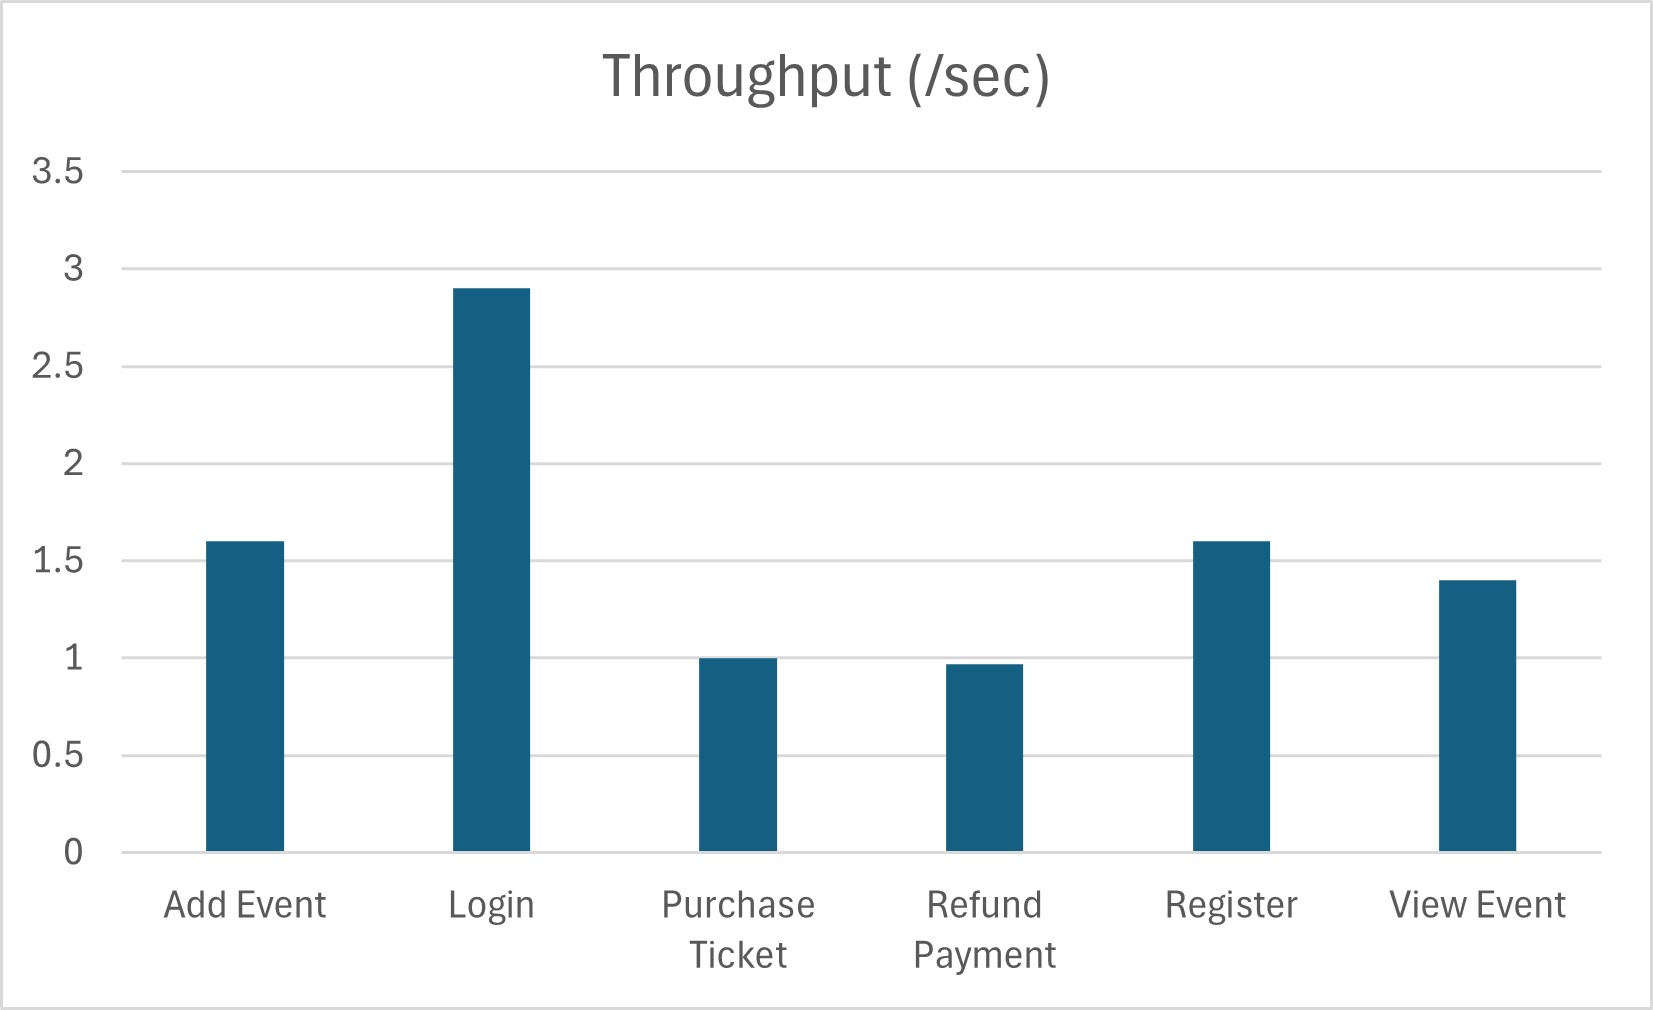
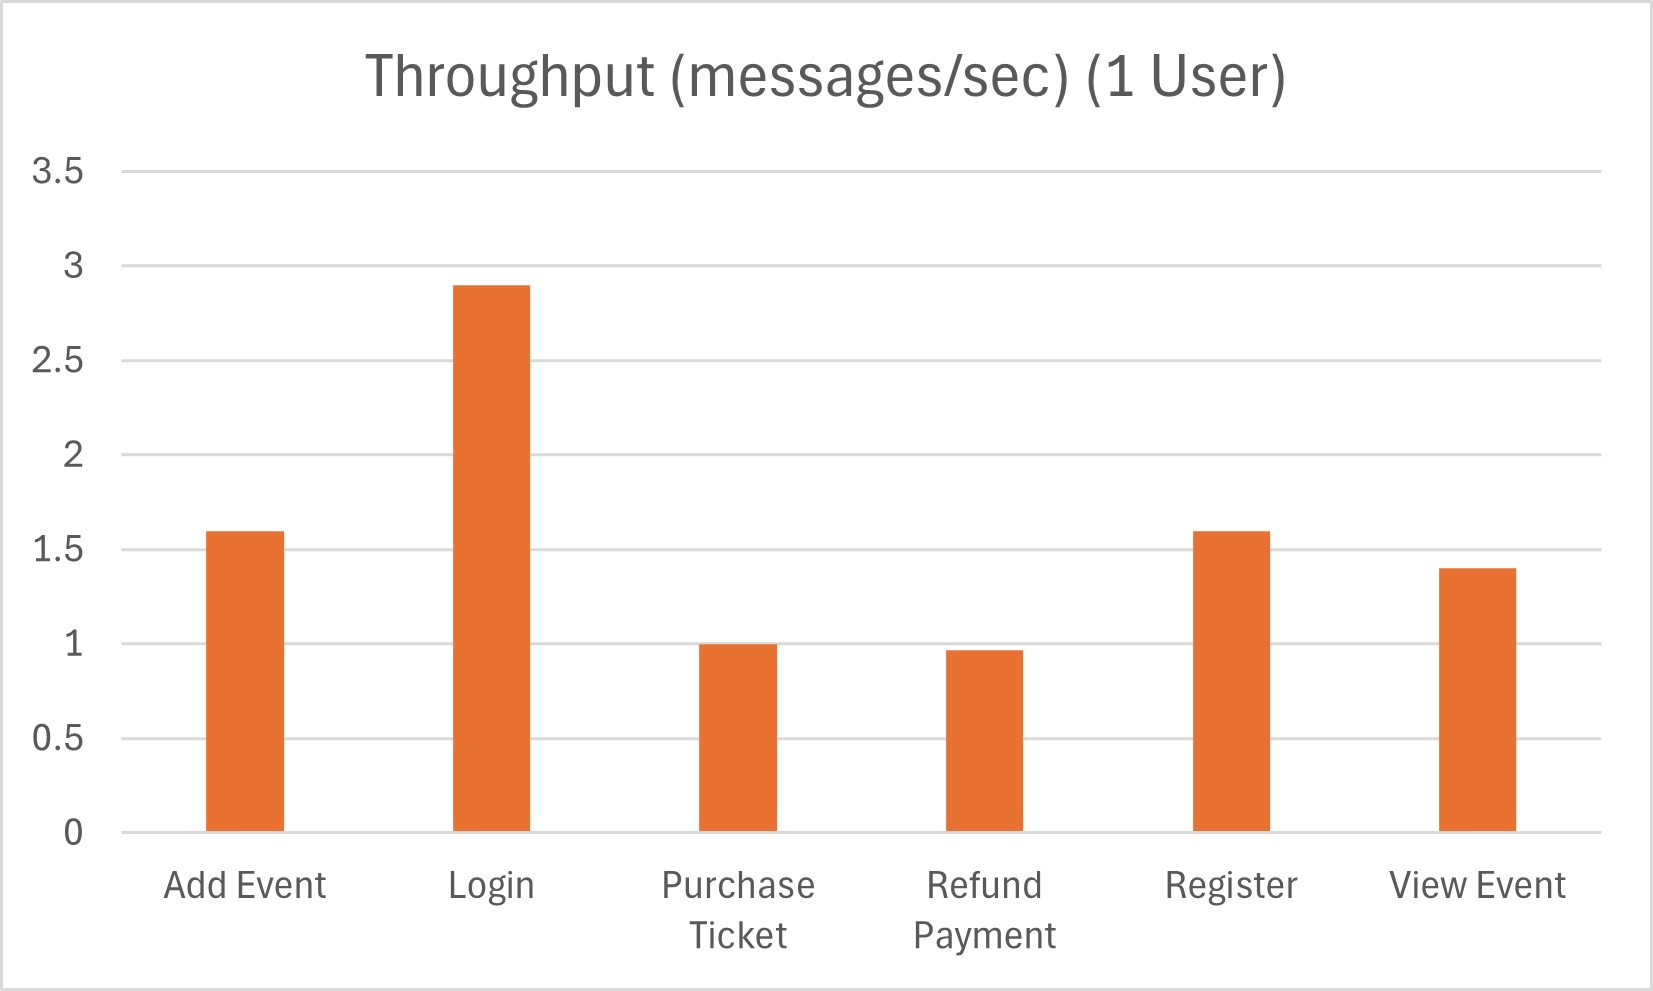
change readme

diff --git a/README.md b/README.md
@@ -31,11 +31,9 @@ Detailed description of the system functionality and how to run the implementati
 Instructions on setting up your project locally
 
 
-## Results of the tests:
+## Evaluation
 
-### Selected criteria
-
-#### Latency
+### Latency
 
 [NN group](https://www.nngroup.com/articles/response-times-3-important-limits/) , and this [research artical](https://www.researchgate.net/publication/228553434_System_Response_Time_and_User_Satisfaction_An_Experimental_Study_of_Browser-based_Applications) have shown that user attention and satisfaction can significantly drop if a task exceeds the approximate 10-second threshold. This is the point at which users begin to lose focus and may consider leaving the process. This effect is particularly considered on e-commerce and ticketing platforms.
 
@@ -50,11 +48,11 @@ Simple endpoints, such as "Add Event," "Login," and "View Event," typically invo
 |Register        | 350     |
 |View Event      | 626     |
 
-#### Throughput
+### Throughput
 
 Throughput assesses the volume of transactions processed within a given timeframe. Similar to latency, complex endpoints, such as "Refund Payment" and "Purchase Ticket," show lower throughput values, whereas other endpoints tend to display comparatively higher throughput values.
 
-|Endpoint | Through put (messages/s)|
+|Endpoint | Throughput (messages/s)|
 |----------------|----------|
 |Add Event       | 1.6      |
 |Login           | 2.9      |
@@ -63,18 +61,34 @@ Throughput assesses the volume of transactions processed within a given timefram
 |Register        | 1.6      |
 |View Event      | 1.4      |
 
-### Evaluation Scenarios
+### Load Testing 
 
-#### Load Testing 
+Load testing enables the evaluation of how the application performs under heavy loads. This includes understanding how quickly the system responds to requests, which is vital for user satisfaction and retention. For our project, we conducted two types of load testing: initially with just one user, and subsequently with 10 concurrent users. The single-user test helped us observe how the system operates under optimal conditions. Following this, we introduced 10 users to more accurately simulate real-life usage and identify any issues that arise when the system is used by multiple people simultaneously. This approach helped us determine whether our project can efficiently handle multiple users without encountering problems.
 
-Single user and multiple users
+|Endpoint | Throughput (messages/s) (1 Users) | Latency (ms) (1 Users) | Avarage Throughput (messages/s) (10 Users)  |Avarage Latency (ms) (10 Users)|
+|----------------|----------|--------|-------|---------|
+|Add Event       | 1.6      |581     |1.1    |429.2    |
+|Login           | 2.9      |625     |1.1    |379.6    |
+|Purchase Ticket | 1        |978     |1      |860.8    |
+|Refund Payment  | 0.97     |1031    |1      |1047.8   |
+|Register        | 1.6      |350     |1.1    |843.5    |
+|View Event      | 1.4      |626     |1      |127.2    |  
 
+### Results and Analysis
 
+- Latency
 
-Collect numerical data of test cases:
-- Collecting logs of container operations
-- Conduct simple analysis for documentation purposes (e.g. plots or graphs)
-![Latency 1 user](<resources/images/latency 1 users.jpg>)
+<p align="center">
+  <img src="resources/images/latency 1 users.jpg" alt="Latency 1 user" width="48%"/>
+  <img src="resources/images/latency 10 users.jpg" alt="Latency 10 user" width="48%"/>
+</p>
+
+- Throughput
+<p align="center">
+  <img src="resources/images/Throughput 1 users.jpg" alt="Throughput 1 user" width="48%"/>
+  <img src="resources/images/Throughput 10 users.jpg" alt="Throughput 10 user" width="48%"/>
+</p>
+
 
 ## Acknowledgments:
 
